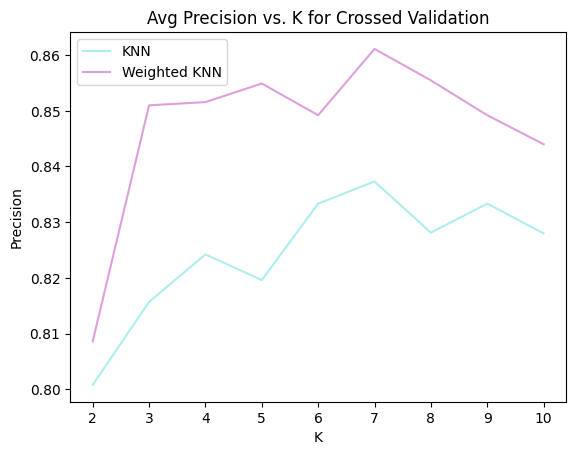
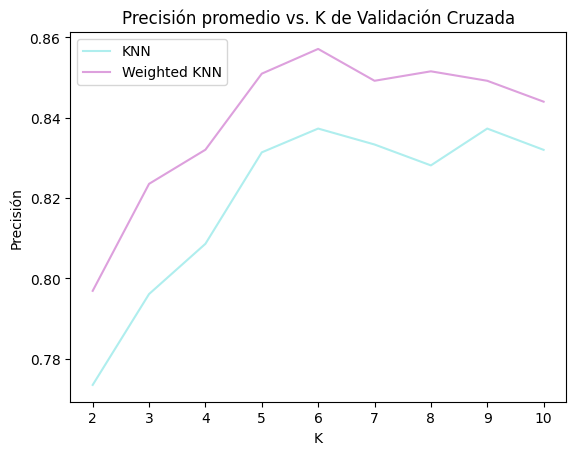
:globe_with_meridians: SPANISH: For plots

diff --git a/tp2/ej2/main.py b/tp2/ej2/main.py
@@ -92,7 +92,7 @@ for k in crossed_validations:
         plot_heatmap(knn_confusion, f'knn_k_{crossed_validation_k}_i{i}.png')
         plot_heatmap(w_knn_confusion, f'w_knn_k_{crossed_validation_k}_i{i}.png')
 
-    plot_precision(knn_precisions, w_knn_precisions, filename=f'precision_k_{crossed_validation_k}.png')
+    plot_precision(knn_precisions, w_knn_precisions, crossed_validation_k, filename=f'precision_k_{crossed_validation_k}.png')
 
     knn_precisions_avg[k-2] = knn_precisions.mean()
     knn_precisions_max[k-2] = knn_precisions.max()
@@ -104,7 +104,17 @@ for k in crossed_validations:
     print(f'For knn, avg precision was {knn_precisions.mean()} with max value {knn_precisions.max()}')
     print(f'For weighted knn, avg precision was {w_knn_precisions.mean()} with max value {w_knn_precisions.max()}')
 
-plot_different_k(knn_precisions_avg, w_knn_precisions_avg, filename='precisions_avg_k.png')
-plot_different_k(knn_precisions_max, w_knn_precisions_max, filename='precisions_max_k.png')
+plot_different_k(
+    knn_precisions_avg,
+    w_knn_precisions_avg,
+    filename='precisions_avg_k.png',
+    title='Precisión promedio vs. K de Validación Cruzada'
+)
+plot_different_k(
+    knn_precisions_max,
+    w_knn_precisions_max,
+    filename='precisions_max_k.png',
+    title='Precisión máxima vs. K de Validación Cruzada'
+)
 
 print(f'Completed {len(crossed_validations)} experiments with crossed validation.')

diff --git a/tp2/ej2/utils.py b/tp2/ej2/utils.py
@@ -30,17 +30,17 @@ def plot_heatmap(matrix, filename):
         c = matrix[i][j]
         ax.text(i, j, str(c), va='center', ha='center')
 
-    plt.xlabel("Prediction")
-    plt.ylabel("Truth")
+    plt.xlabel("Predicción")
+    plt.ylabel("Valor Real")
     plt.savefig(f'{results_directory}/confusion/{filename}', bbox_inches='tight')
     plt.close()
 
 
-def plot_precision(precisions_knn, precisions_w_knn, filename):
+def plot_precision(precisions_knn, precisions_w_knn, k, filename):
 
-    plt.title('Precision per iteration in k crossed validation')
-    plt.ylabel('Precision')
-    plt.xlabel('Iteration')
+    plt.title(f'Precisión por iteración, k={k}')
+    plt.ylabel('Precisión')
+    plt.xlabel('Iteración')
 
     points = np.arange(len(precisions_knn))
     width = 0.35  # the width of the bars
@@ -55,10 +55,10 @@ def plot_precision(precisions_knn, precisions_w_knn, filename):
     plt.close()
 
 
-def plot_different_k(precisions_knn, precisions_w_knn, filename):
+def plot_different_k(precisions_knn, precisions_w_knn, filename, title):
 
-    plt.title('Avg Precision vs. K for Crossed Validation')
-    plt.ylabel('Precision')
+    plt.title(title)
+    plt.ylabel('Precisión')
     plt.xlabel('K')
 
     plt.plot(precisions_knn, label='KNN', color='paleturquoise')
